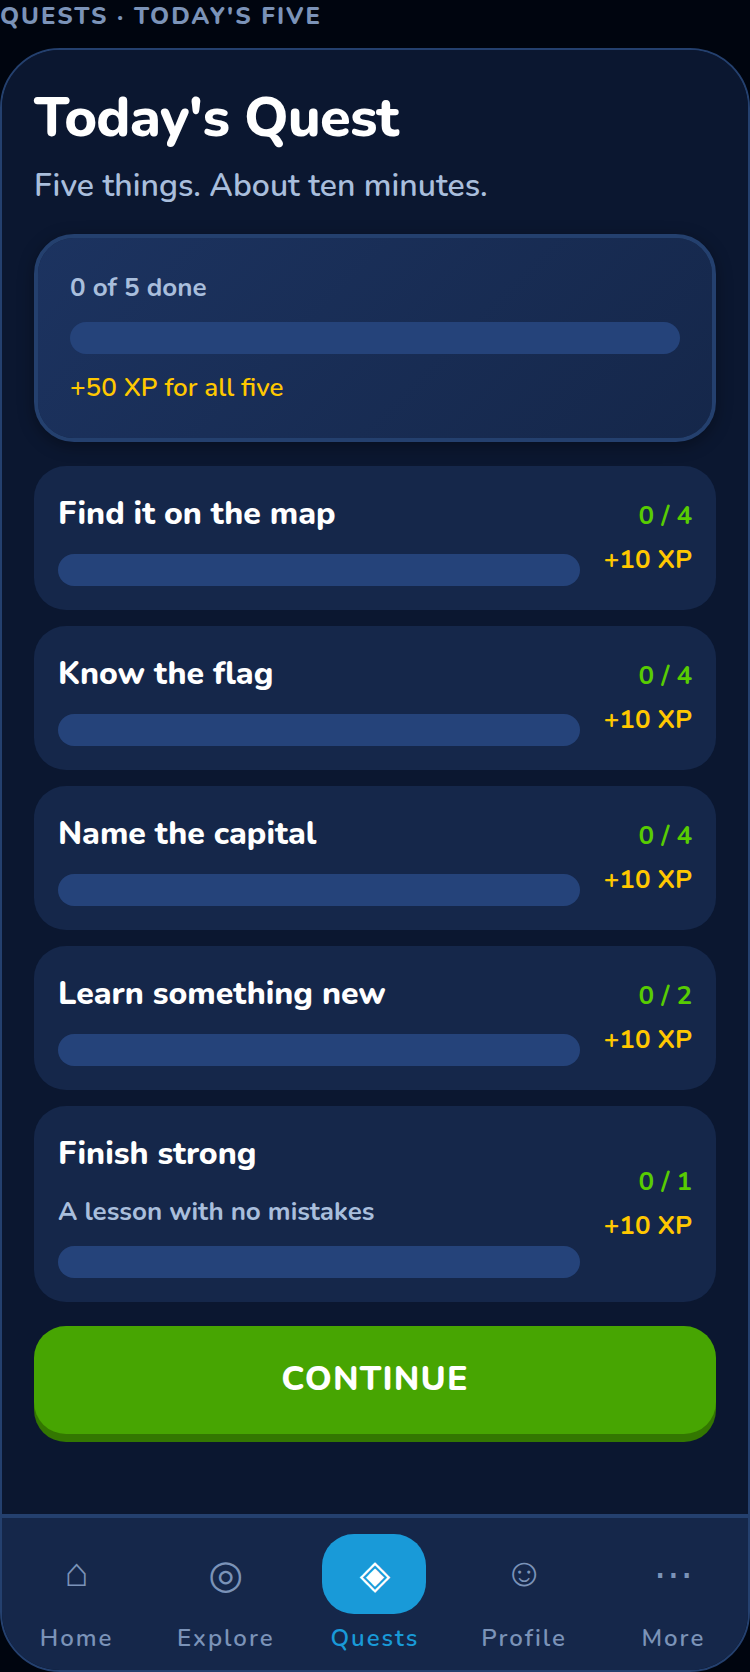
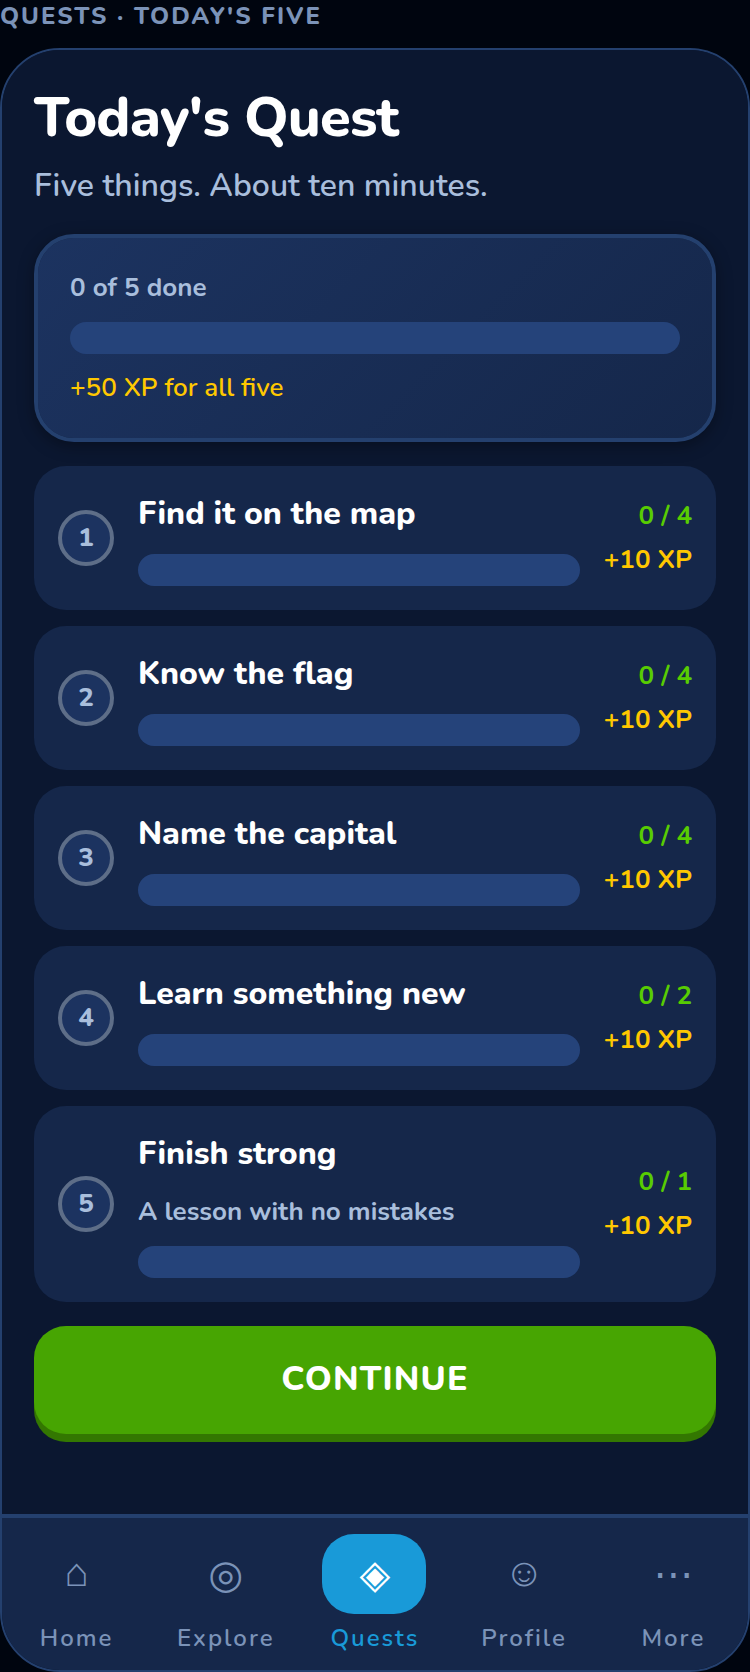
feat: number the daily quest steps, per mockup screen 4
The five quest rows had titles, progress bars and XP, and no numbering and no
completion mark. That made them read as five unrelated meters instead of one
quest with five steps, which is what they are — and the mockup has had the
numbered checklist on screen 4 the whole time.

A done step is now a filled green tick rather than only a full bar. At a glance
a bar at 100% and a bar at 95% are the same picture; a tick is not.

The circle is aria-hidden. The row already announces its title and progress, so
a reader saying "3" before every task adds noise and no information — the same
reasoning as the back chevron in ScreenHeader. It is 28pt rather than 44pt on
purpose: it is decoration inside an already-accessible row, not a control, and
growing it to a tap target would promise a tap that does nothing.

Tested on both branches from one render — the fixture has task 2 complete and
the rest not, so the assertion is ['1','✓','3','4','5']. Verified by removing
the numbering and watching it go red; a test that only ever saw the unfinished
state is exactly how the done state would rot.

289 mobile tests, verify green.

diff --git a/apps/mobile/src/features/quests/QuestScreen.tsx b/apps/mobile/src/features/quests/QuestScreen.tsx
@@ -110,8 +110,8 @@ export function QuestScreen({ quest, loading, onStart, onStartSpeedRound }: Ques
       </Card>
 
       <View style={styles.list}>
-        {quest.tasks.map((task) => (
-          <TaskRow key={task.slot} task={task} />
+        {quest.tasks.map((task, i) => (
+          <TaskRow key={task.slot} task={task} step={i + 1} />
         ))}
       </View>
 
@@ -138,7 +138,7 @@ export function QuestScreen({ quest, loading, onStart, onStartSpeedRound }: Ques
   )
 }
 
-function TaskRow({ task }: { task: QuestTask }) {
+function TaskRow({ task, step }: { task: QuestTask; step: number }) {
   const t = useT()
   const title = t(SLOT_TITLE[task.slot])
 
@@ -155,6 +155,22 @@ function TaskRow({ task }: { task: QuestTask }) {
       aria-checked={task.complete}
       style={[styles.task, task.complete && styles.taskDone]}
     >
+      {/* The step number, per mockup screen 4.
+          Without it the five rows read as five unrelated meters; with it they read
+          as one quest with five steps, which is what they are. The done state
+          becomes a filled tick rather than only a full bar — a bar at 100 % and a
+          bar at 95 % look alike at a glance, and a tick does not.
+          `aria-hidden` because the row already announces its title and its state;
+          a reader saying "3" before every task is noise. */}
+      <View
+        style={[styles.step, task.complete && styles.stepDone]}
+        aria-hidden
+      >
+        <Text style={[styles.stepText, task.complete && styles.stepTextDone]}>
+          {task.complete ? '✓' : String(step)}
+        </Text>
+      </View>
+
       <View style={styles.taskText}>
         <Text style={[styles.taskTitle, task.complete && styles.taskTitleDone]}>{title}</Text>
         {task.goal !== undefined && (
@@ -218,6 +234,26 @@ const styles = StyleSheet.create({
   // Done tasks recede rather than disappear — the list keeps its shape all day, so
   // the user's sense of "how much is left" does not jump around.
   taskDone: { opacity: 0.6 },
+  // 28pt, not 44: this is decoration inside an already-accessible row, not a
+  // control. Growing it to a tap target would promise a tap that does nothing.
+  step: {
+    width: 28,
+    height: 28,
+    borderRadius: radius.full,
+    alignItems: 'center',
+    justifyContent: 'center',
+    backgroundColor: colors.bg.surfaceRaised,
+    borderWidth: 2,
+    borderColor: colors.border.strong,
+  },
+  stepDone: {
+    backgroundColor: colors.feedback.correct,
+    borderColor: colors.feedback.correct,
+  },
+  stepText: { ...text('caption', { weight: '800', numeric: true }), color: colors.text.secondary },
+  // On the filled green circle, not on the surface — this pair is the one the
+  // contrast checker cares about.
+  stepTextDone: { color: colors.text.onAccent },
   taskText: { flex: 1, gap: space[2] },
   taskTitle: { ...text('bodyStrong'), color: colors.text.primary },
   taskTitleDone: { color: colors.text.secondary },

diff --git a/apps/mobile/src/features/quests/QuestScreen.test.tsx b/apps/mobile/src/features/quests/QuestScreen.test.tsx
@@ -32,6 +32,30 @@ describe('Quests — the five states', () => {
     }
   })
 
+  it('numbers the steps, and ticks the ones that are done', () => {
+    // Mockup screen 4 reads as a numbered checklist. Without the numbers the five
+    // rows look like five unrelated meters; without the tick, a bar at 100% and a
+    // bar at 95% are the same picture at a glance.
+    //
+    // The fixture has task 2 complete and the rest not, so this asserts BOTH
+    // branches from one render — a test that only ever saw the unfinished state is
+    // how the done state would rot.
+    const { container } = render(<QuestScreen quest={quest()} loading={false} onStart={() => {}} />)
+    // `Array.from`, not spread: a NodeList is not iterable under this tsconfig.
+    const steps = Array.from(container.querySelectorAll('[aria-hidden="true"]'))
+      .map((el) => el.textContent?.trim())
+      .filter((s) => s !== undefined && s !== '')
+    expect(steps).toEqual(['1', '✓', '3', '4', '5'])
+  })
+
+  it('keeps the step number out of the screen reader', () => {
+    // The row already announces its title and progress. A reader saying "3" before
+    // every task is noise, and the number carries no information the label lacks.
+    render(<QuestScreen quest={quest()} loading={false} onStart={() => {}} />)
+    const row = screen.getByLabelText(/Know the flag/)
+    expect(row.textContent).not.toMatch(/^2/)
+  })
+
   it('shows a skeleton while loading', () => {
     const { container } = render(<QuestScreen quest={null} loading onStart={() => {}} />)
     expect(container.querySelector('[aria-label="Loading"]')).toBeTruthy()

diff --git a/docs/design/mockup-fidelity.md b/docs/design/mockup-fidelity.md
@@ -28,6 +28,12 @@ day's work once the components existed:
 - Daily Challenge card with countdown in tabular numerals
 - Friends / League tile pair
 - Five-tab bar with the active tab's filled chip
+- **Numbered steps on the daily quest** (mockup screen 4). The five rows had titles,
+  bars and XP but no numbering and no completion mark, so they read as five unrelated
+  meters rather than one quest with five steps. A done step is now a filled tick, not
+  only a full bar — at a glance 100 % and 95 % are the same picture, and a tick is not.
+  The circle is `aria-hidden`: the row already announces its title and progress, and a
+  reader saying "3" before every task is noise.
 
 ### 2. Needs assets — blocked on a decision, not on code
 
